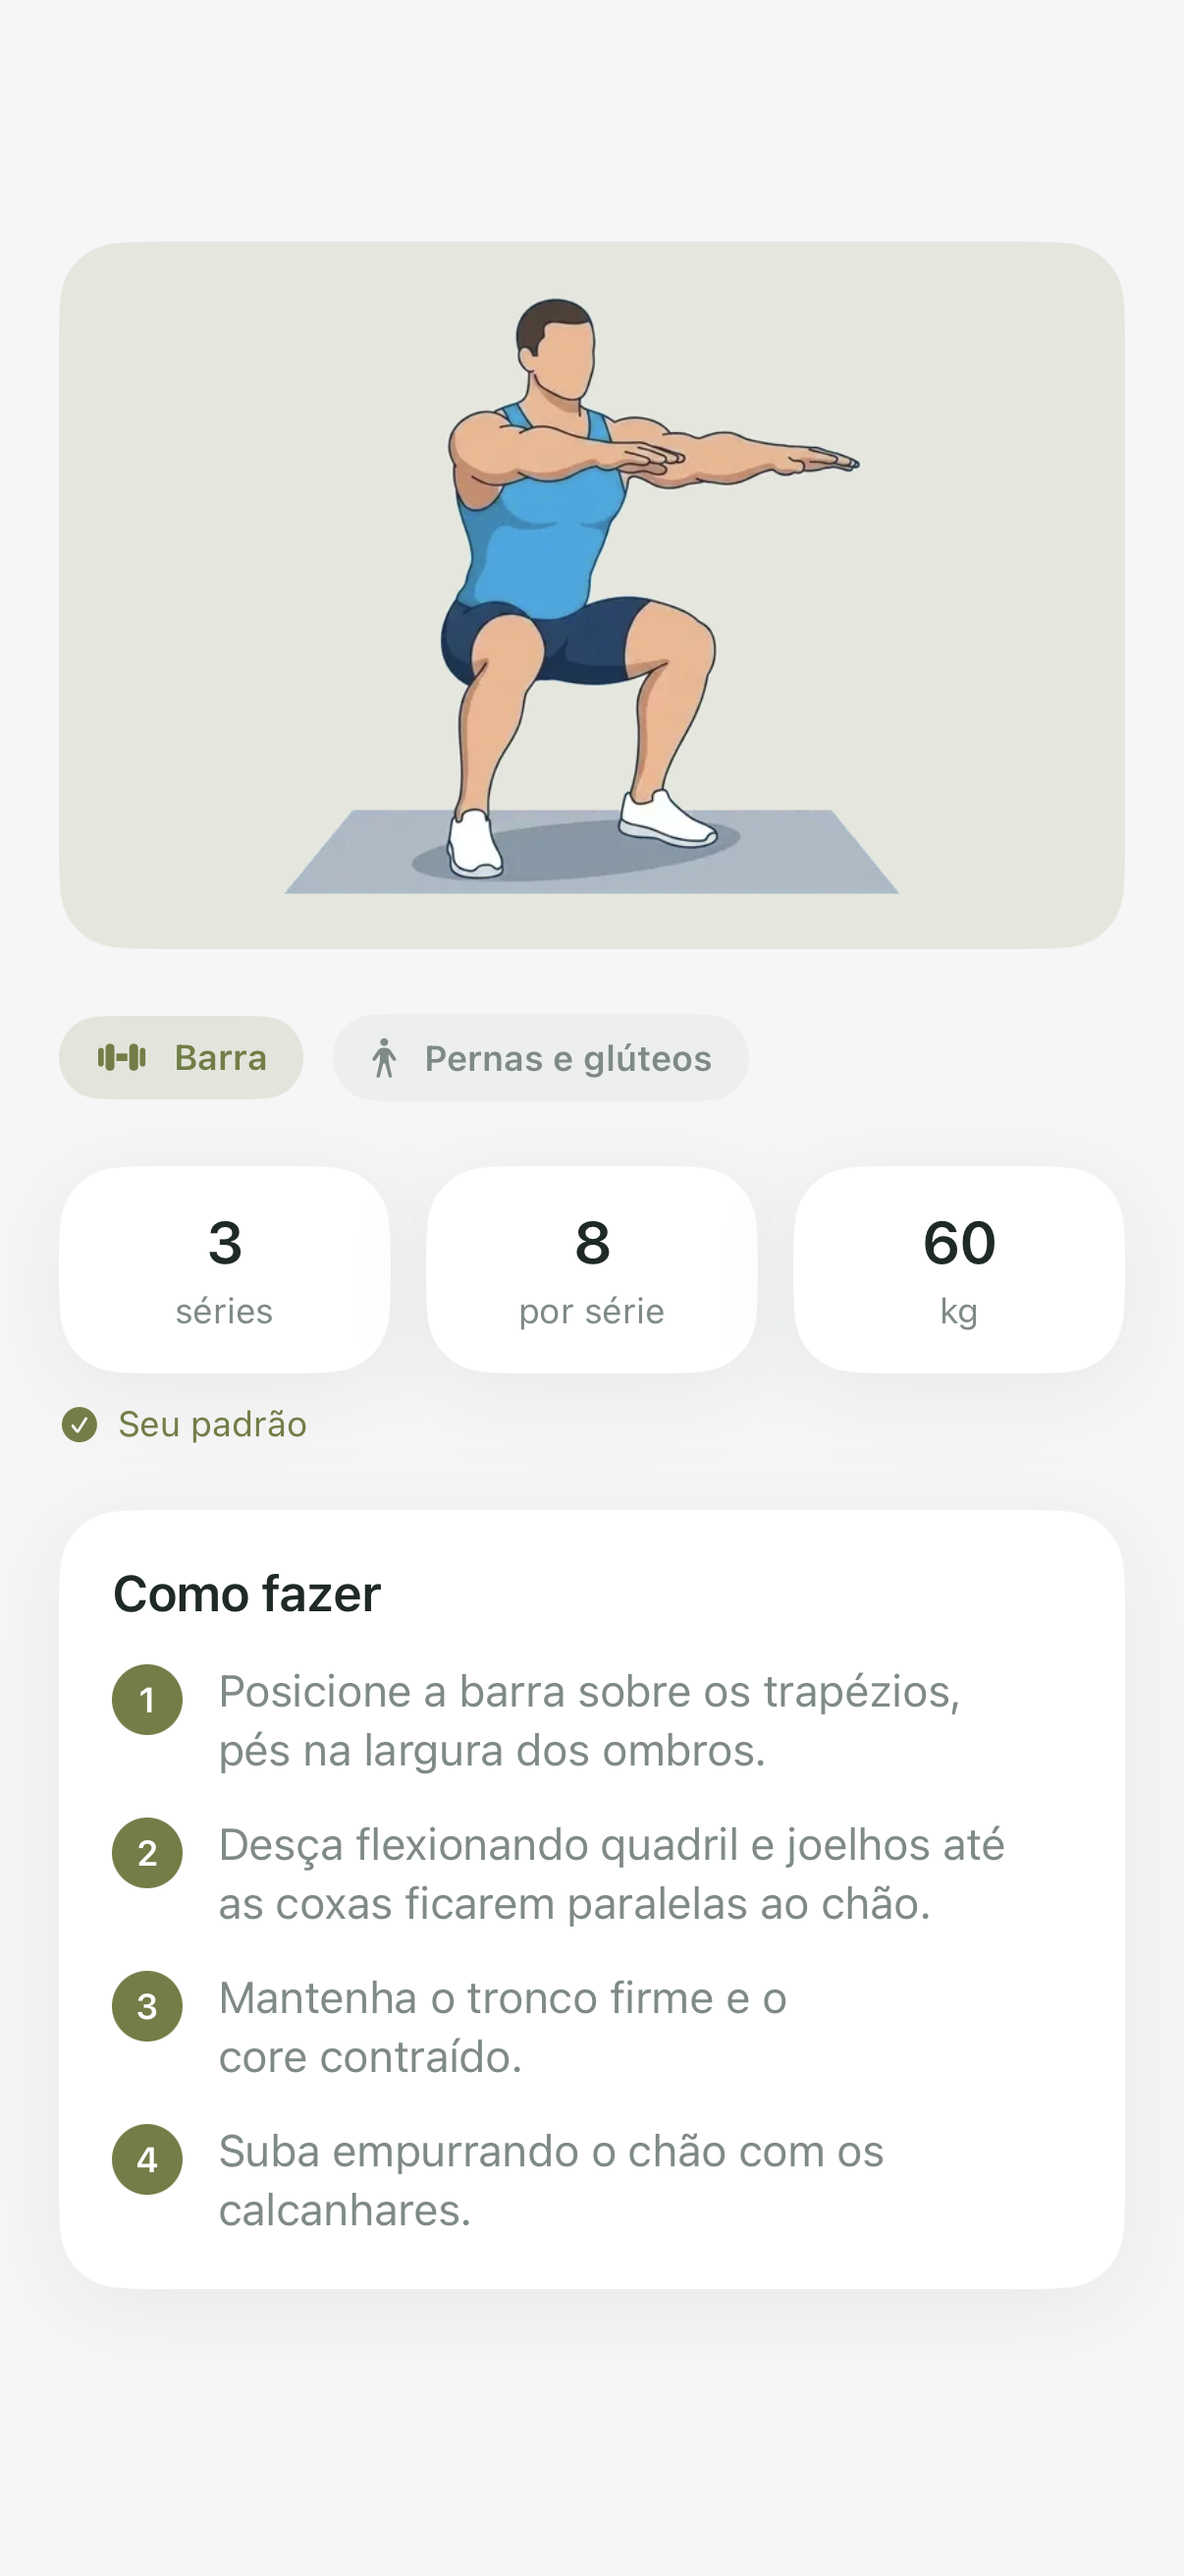
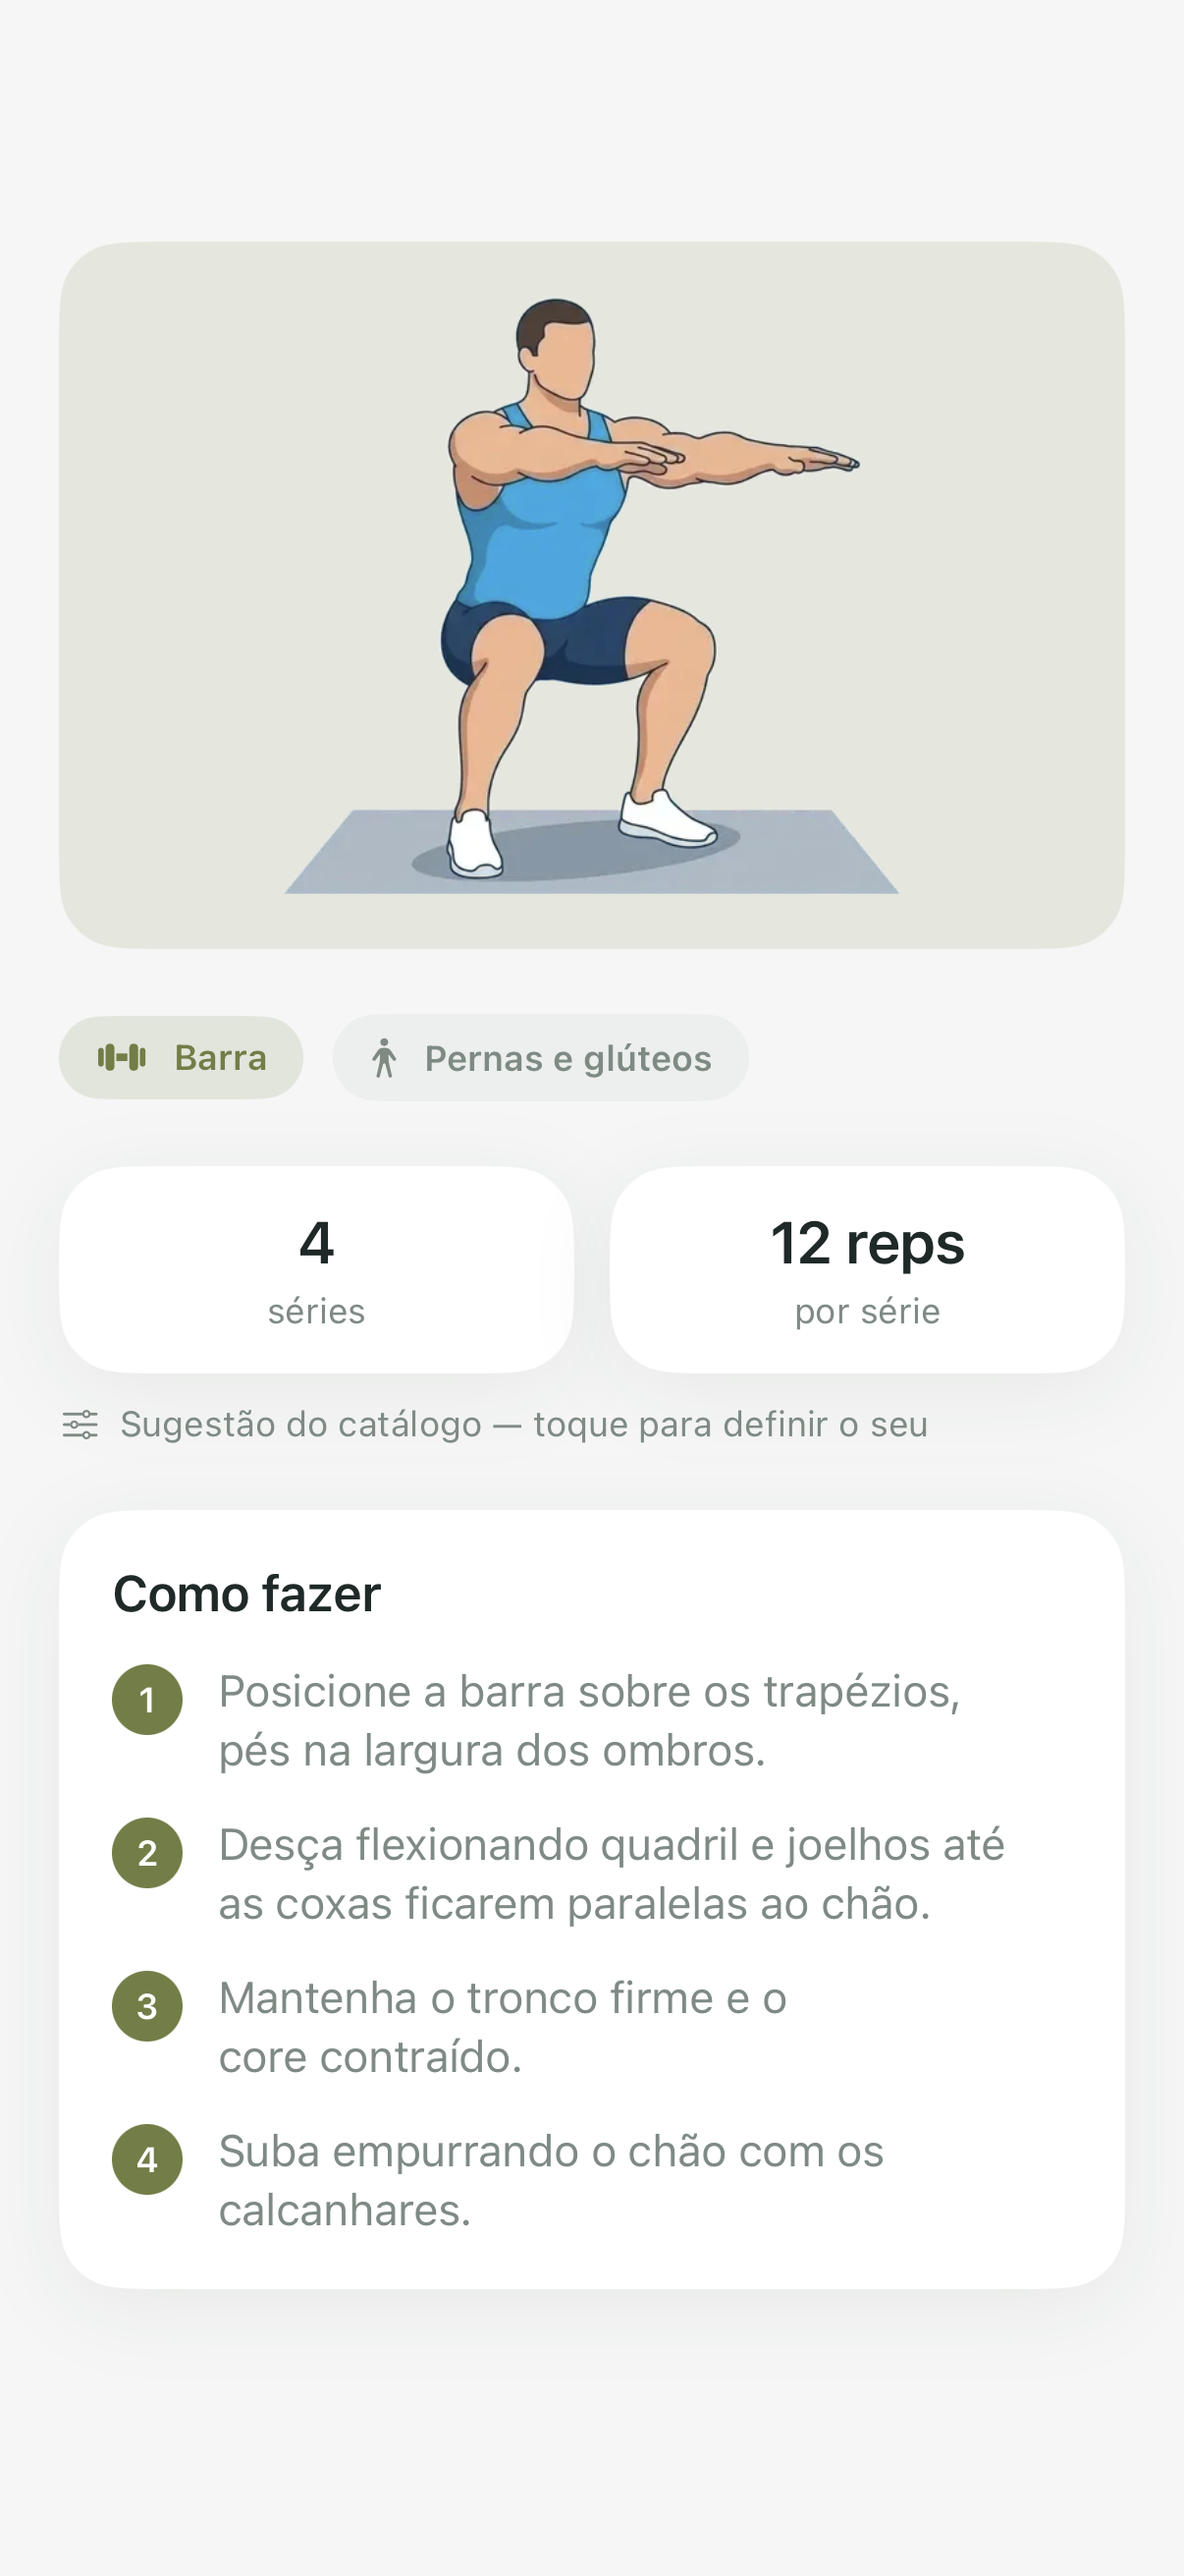
smoke: o harness do padrão herdava o disco e fotografava o mesmo estado duas vezes
O Assis rodou `md5` nas capturas antes de mostrar ao dono e achou o que eu devia
ter achado: os DOIS pares que sustentavam a afirmação eram o mesmo arquivo.

    cd67ad13…  Meu_padrão_(definido).png  ==  Meu_padrão_(vazio).png
    693ed301…  Detalhe_do_exercício.png   ==  Detalhe_(com_padrão).png

A CAUSA — e não é a tela

`AppModel` grava em `UserDefaults.standard`, que SOBREVIVE ao relançamento do
app. O bloco do padrão semeava só o estado "com padrão" e confiava que o disco
estivesse limpo para o estado "vazio". Durante a validação eu relancei o app
quatro vezes sem desinstalar: a primeira execução deixou 3×8×60 gravados, e
todas as seguintes renderizaram a tela COM padrão sob o rótulo "vazio".

A imagem rotulada "(vazio)" mostrava "3 séries · 8 · 60 kg". O rótulo mentia; a
imagem não. E o log já dizia a mesma coisa em números — `energia 7.30` para as
duas capturas do editor, `11.64` para as duas do detalhe —, só que ninguém
comparou.

**A funcionalidade não tinha defeito.** As duas capturas "depois" eram legítimas
(os md5 delas continuam os mesmos depois da correção, o que é a confirmação); as
"antes" é que estavam contaminadas. De quebra, o acidente provou algo que eu não
tinha provado de propósito: a tela RELÊ o padrão do disco num lançamento novo.

O QUE MUDOU

  1. o estado é SEMEADO antes de cada captura — inclusive o vazio. Remover é
     semear. O harness não herda mais o disco, e limpa o padrão ao terminar,
[…]

diff --git a/Shared/SmokeTestTelas.swift b/Shared/SmokeTestTelas.swift
@@ -70,6 +70,22 @@ enum SmokeTestTelas {
         try? png.write(to: pasta.appendingPathComponent("\(limpo).png"))
     }
 
+    /// Lê de volta o PNG que `salvar` acabou de escrever.
+    ///
+    /// [2026-09-03] Existe para o canário do padrão do exercício. Duas capturas
+    /// rotuladas "antes" e "depois" saíram byte a byte IDÊNTICAS e ninguém
+    /// percebeu até o Assis rodar `md5` nelas — o rótulo dizia uma coisa e a
+    /// imagem dizia outra. Comparar os bytes é a única forma de o harness saber
+    /// que fotografou dois estados, e não o mesmo estado duas vezes.
+    private static func dadosDaCaptura(_ nome: String) -> Data? {
+        guard let pasta = pastaDeCapturas else { return nil }
+        let limpo = nome
+            .replacingOccurrences(of: " · ", with: "__")
+            .replacingOccurrences(of: " ", with: "_")
+            .replacingOccurrences(of: "/", with: "-")
+        return try? Data(contentsOf: pasta.appendingPathComponent("\(limpo).png"))
+    }
+
     private static func log(_ t: String) { NSLog("%@", "[SMOKE] " + t) }
 
     // MARK: - Detector de tela vazia
@@ -708,14 +724,80 @@ enum SmokeTestTelas {
         render("Corpo · Aviso de saúde", HealthDisclaimerView())
 
         if let ex = exercicio {
+            // ═══════════════════════════════════════════════════════════════
+            // [2026-09-03] O padrão do exercício, em TRÊS estados — e o canário
+            // que exige que sejam três imagens diferentes.
+            //
+            // A primeira versão deste bloco produziu "(vazio)" e "(definido)"
+            // BYTE A BYTE IDÊNTICAS, e o mesmo com o detalhe "antes"/"(com
+            // padrão)". Causa: `AppModel` grava em `UserDefaults.standard`, que
+            // SOBREVIVE entre lançamentos do app. Uma execução anterior já
+            // tinha deixado 3×8×60 no disco, então o render rotulado "vazio"
+            // fotografou a tela COM padrão. O harness herdou o disco e mentiu
+            // no rótulo — a mesma família de defeito do `var falhas` que nunca
+            // era preenchido.
+            //
+            // Duas correções, e nenhuma delas é cosmética:
+            //   1. o estado é SEMEADO explicitamente antes de cada captura,
+            //      inclusive o estado vazio (remover é semear também);
+            //   2. o canário abaixo compara os BYTES. Se duas capturas saírem
+            //      iguais, o harness acusa em voz alta em vez de entregar uma
+            //      prova que não prova nada.
+            //
+            // O terceiro estado (5×5×100) é o CONTROLE POSITIVO: prova que o
+            // que muda na tela é o dado, e não o acaso de dois renders.
+            // ═══════════════════════════════════════════════════════════════
+
+            // Estado 1 — SEM padrão. Remover é semear: não se herda o disco.
+            model.definirPadrao(exercicio: ex.name, series: nil, reps: nil, cargaKg: nil)
             render("Corpo · Detalhe do exercício", ExerciseDetailView(exercise: ex))
-            // [2026-09-03] A tela que faltava: definir N séries × M reps ×
-            // carga. Renderizada nos dois estados — sem padrão (placeholders do
-            // catálogo) e com o padrão do Assis já salvo (3×8 · 60 kg).
+            let detalheSemPadrao = dadosDaCaptura("Corpo · Detalhe do exercício")
             render("Corpo · Meu padrão (vazio)", EditorDePadraoView(exercicioDoCatalogo: ex))
+            let editorVazio = dadosDaCaptura("Corpo · Meu padrão (vazio)")
+
+            // Estado 2 — o padrão do Assis: 3 séries × 8 reps × 60 kg.
             model.definirPadrao(exercicio: ex.name, series: 3, reps: "8", cargaKg: 60)
-            render("Corpo · Meu padrão (definido)", EditorDePadraoView(exercicioDoCatalogo: ex))
+            render("Corpo · Meu padrão (definido 3x8x60)", EditorDePadraoView(exercicioDoCatalogo: ex))
+            let editorDefinido = dadosDaCaptura("Corpo · Meu padrão (definido 3x8x60)")
             render("Corpo · Detalhe do exercício (com padrão)", ExerciseDetailView(exercise: ex))
+            let detalheComPadrao = dadosDaCaptura("Corpo · Detalhe do exercício (com padrão)")
+
+            // Estado 3 — CONTROLE POSITIVO, valor visivelmente outro.
+            model.definirPadrao(exercicio: ex.name, series: 5, reps: "5", cargaKg: 100)
+            render("Corpo · Meu padrão (controle 5x5x100)", EditorDePadraoView(exercicioDoCatalogo: ex))
+            let editorControle = dadosDaCaptura("Corpo · Meu padrão (controle 5x5x100)")
+            render("Corpo · Detalhe do exercício (controle 5x5x100)", ExerciseDetailView(exercise: ex))
+            let detalheControle = dadosDaCaptura("Corpo · Detalhe do exercício (controle 5x5x100)")
+
+            // ── O CANÁRIO ───────────────────────────────────────────────────
+            // Cada par tem de DIFERIR. Igualdade aqui significa uma de duas
+            // coisas, e as duas são graves: ou a tela não relê o padrão (a
+            // funcionalidade não funciona), ou o harness não semeou (a prova
+            // não prova). Em qualquer dos casos, a captura não vale nada.
+            func exigirDiferentes(_ a: Data?, _ b: Data?, _ oQue: String) {
+                guard salvarPNGs else { return }
+                guard let a, let b else {
+                    falhas.append("padrão: captura ausente — \(oQue)")
+                    log("  ✗✗ PADRÃO \(oQue): captura não foi escrita; nada a comparar")
+                    return
+                }
+                if a == b {
+                    falhas.append("padrão: capturas IDÊNTICAS — \(oQue)")
+                    log("  ✗✗ PADRÃO \(oQue): as duas capturas são BYTE A BYTE IGUAIS."
+                        + " Ou a tela não relê o padrão, ou o estado não foi semeado."
+                        + " A prova está morta — não use estas imagens.")
+                } else {
+                    log("  ✓ padrão \(oQue): capturas diferem (\(a.count) vs \(b.count) bytes)")
+                }
+            }
+            exigirDiferentes(editorVazio, editorDefinido, "editor vazio × 3x8x60")
+            exigirDiferentes(editorDefinido, editorControle, "editor 3x8x60 × controle 5x5x100")
+            exigirDiferentes(detalheSemPadrao, detalheComPadrao, "detalhe sem × com padrão")
+            exigirDiferentes(detalheComPadrao, detalheControle, "detalhe 3x8x60 × controle 5x5x100")
+
+            // Não deixa o padrão no disco: a próxima execução tem de começar do
+            // mesmo lugar que esta. Foi exatamente isto que faltou da primeira vez.
+            model.definirPadrao(exercicio: ex.name, series: nil, reps: nil, cargaKg: nil)
         } else {
             log("  — Detalhe do exercício: nenhum treino no catálogo")
         }
